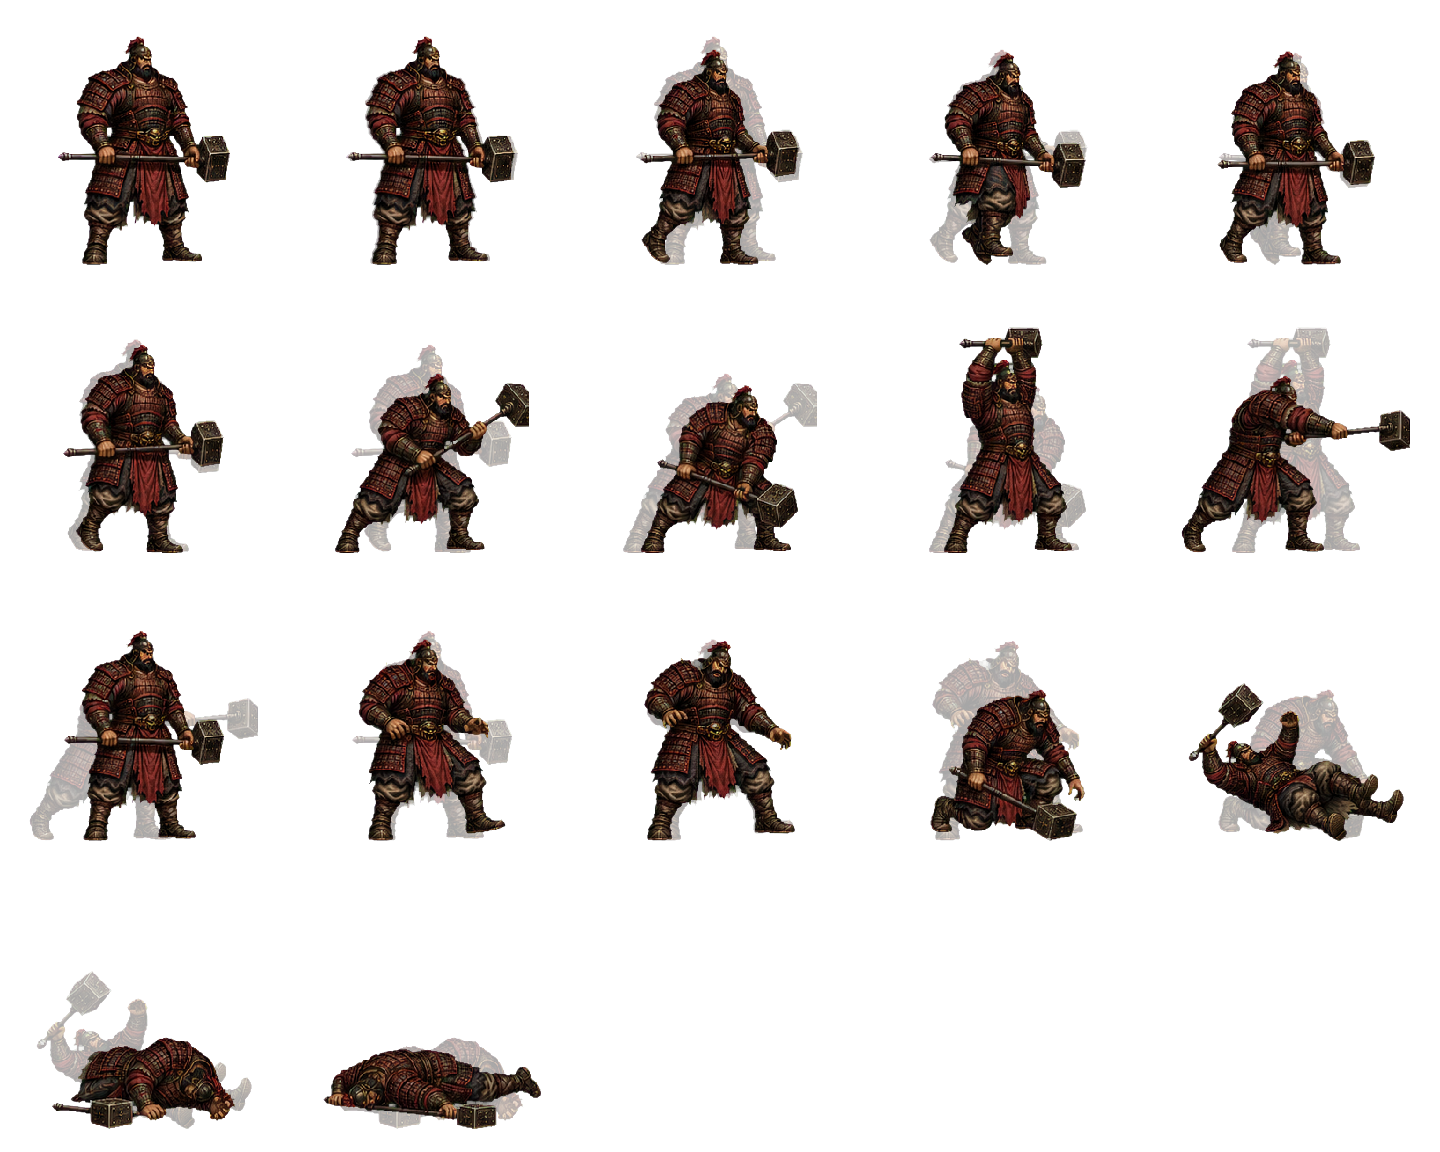
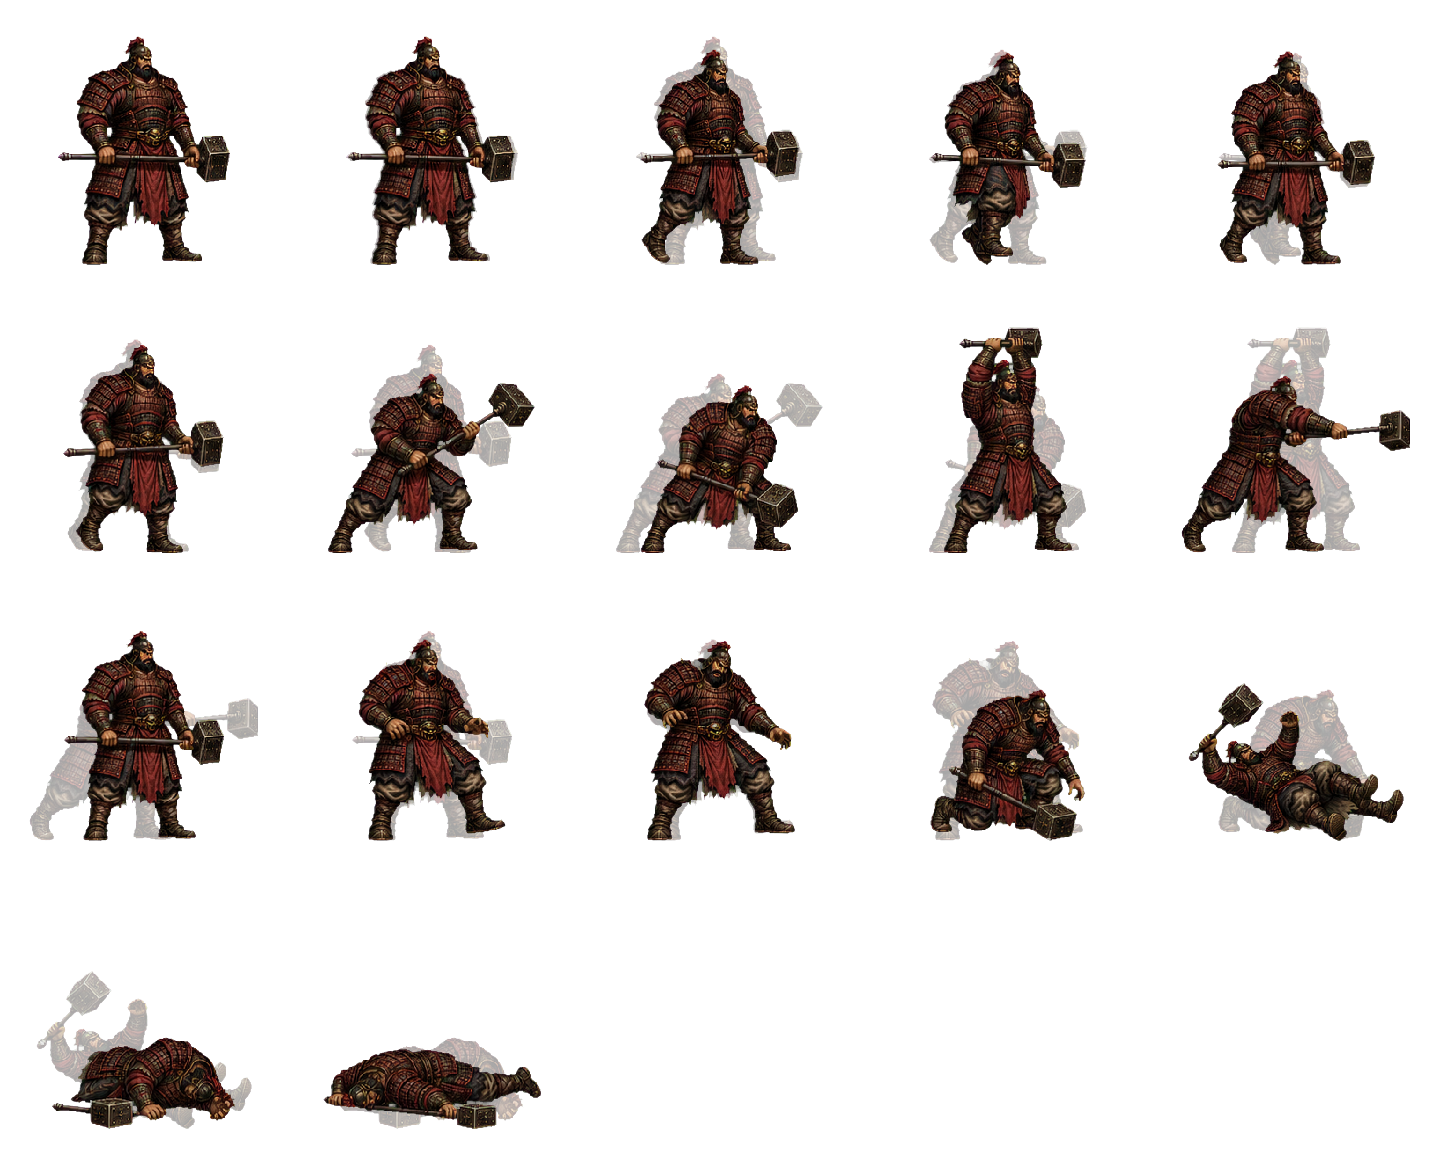
fix: restore mauler attack hammer crop

Changed region(s): [[0.2188, 0.3125, 0.375, 0.5], [0.4375, 0.3125, 0.5625, 0.4688], [0.5, 0.4375, 0.5312, 0.4688]]

diff --git a/tools/build_enemy_art.py b/tools/build_enemy_art.py
@@ -48,7 +48,7 @@ MAULER_SOURCE_RECTS = (
     (739, 70, 970, 345),
     (970, 70, 1210, 345),
     (0, 350, 232, 630),
-    (232, 350, 460, 630),
+    (232, 350, 484, 630),
     (460, 350, 660, 630),
     (660, 350, 828, 630),
     (828, 350, 1090, 630),

diff --git a/docs/character-production/er4-mauler-production-art-replacement.md b/docs/character-production/er4-mauler-production-art-replacement.md
@@ -40,7 +40,7 @@ display scale `1.05`, and right-authored source facing.
 | walk-1 | — | `(739,70,231,275)` | `(66,52)` |
 | walk-2 | — | `(970,70,240,275)` | `(65,51)` |
 | walk-3 | — | `(0,350,232,280)` | `(63,56)` |
-| attack-0 | startup | `(232,350,228,280)` | `(47,85)` |
+| attack-0 | startup | `(232,350,252,280)` | `(40,85)` |
 | attack-1 | startup | `(460,350,200,280)` | `(65,97)` |
 | attack-2 | active | `(660,350,168,280)` | `(80,39)` |
 | attack-3 | recovery | `(828,350,262,280)` | `(29,87)` |
@@ -79,10 +79,19 @@ modified with rotate, scale, or interpolation to fake animation.
 | --- | --- |
[9 lines of base64/hex data omitted]
+
+## Post-review crop correction
+
+The reviewer found that `attack-0` retained only part of the hammer head. The
+measured source rectangle ended at X=460 while the connected Mauler/hammer
+component continued to X=475. The rectangle now ends at X=484, leaving nine
+transparent source pixels and 41 runtime pixels to the right of the complete
+hammer. The disconnected neighboring pose is still removed by connected-alpha
+isolation. No pose, timing, anchor, scale, or gameplay parameter changed.
 
 ## Validation
 
@@ -90,9 +99,9 @@ modified with rotate, scale, or interpolation to fake animation.
 - TypeScript: passed.
 - ESLint: 0 errors; 8 pre-existing `<img>` warnings.
 - Direct Vinext and GitHub Pages builds and production packaging: passed.
-- Runtime inventory: 35 logical entries, 43 request files, 12,620,761 encoded
+- Runtime inventory: 35 logical entries, 43 request files, 12,621,623 encoded
   bytes, 126,676,480 decoded RGBA bytes, and 46 packaged production files.
-- GitHub Pages artifact: 17,913,137 bytes.
+- GitHub Pages artifact: 17,913,999 bytes.
 - Browser: Desktop, 844×390, and 390×844 each retained one logical 1280×720
   Canvas, no page overflow, and zero captured runtime errors.
 - `pnpm` wrappers remain affected by TD-M11 before reaching project scripts;

diff --git a/CHECKLIST.md b/CHECKLIST.md
@@ -1234,9 +1234,10 @@
 | Atlas/alignment | Pass | Measured 288×288 cells, feet `(144,265)`, one `1.05` scale, 240.45px logical idle height |
 | Attack contract | Pass | Two startup, one active, two recovery frames; exact 600ms timing and existing body/hitbox/gameplay unchanged |
 | QA/provenance | Pass | Repository-owned idle gate, source/transparent derivatives, measured metadata, debug, onion, 25% silhouette, lineup, hashes, and review report |
-| Delivery | Pass | 43 requests; 12,620,761 encoded bytes; 126,676,480 decoded RGBA; 17,913,137-byte GitHub Pages artifact |
+| Delivery | Pass | 43 requests; 12,621,623 encoded bytes; 126,676,480 decoded RGBA; 17,913,999-byte GitHub Pages artifact |
 | Automated gates | Pass with TD-M11 noted | 129/129 direct tests, typecheck, lint 0 errors/8 existing warnings, direct Vinext/Vite builds and packaging |
 | Browser | Pass | Desktop, 844×390, and 390×844: one logical 1280×720 Canvas, no overflow, zero captured errors |
 | Scope | Pass | Mauler presentation and minimum per-frame metadata only; no balance, AI, Stage, Camera, UI, Audio, or unrelated gameplay change |
 | Approved-prototype conformance | Go | Largest normal enemy, smaller than Boss; square-headed long hammer and broad heavy silhouette preserved |
+| Post-review crop correction | Pass | `attack-0` source rect is `(232,350,252,280)`; complete connected hammer retains 9px source and 41px runtime right padding with no adjacent pose |
 | Next task | Selected | GX.1 — Duelist Leap Mobility Prototype |

diff --git a/SPRINT.md b/SPRINT.md
@@ -985,6 +985,10 @@ Status: completed and accepted.
   eight existing warnings; both direct builds and packaging passed.
 - [x] Desktop, 844×390, and 390×844 production smoke retained one 1280×720
   Canvas, no overflow, and zero captured browser errors.
+- [x] Post-review correction expanded only `attack-0` source X range from
+  `232..460` to `232..484`; the complete hammer now retains 9 source pixels
+  and 41 runtime pixels of right-side padding without neighboring-pose
+  contamination.
 - [ ] Package-manager wrappers remain affected by TD-M11; equivalent direct
   project gates above are the recorded acceptance evidence.
 

diff --git a/ASSET_PIPELINE.md b/ASSET_PIPELINE.md
@@ -328,6 +328,6 @@ memory and delivery budgets rather than append them.
   cadence.
 - Shield Guard and Crossbow remain temporary Soldier presentation until their
   dedicated production tasks.
-- ER.4 delivery measurements: 43 runtime requests, 12,620,761 encoded bytes,
+- ER.4 delivery measurements: 43 runtime requests, 12,621,623 encoded bytes,
   126,676,480 decoded RGBA bytes, 46 packaged production files, and a
-  17,913,137-byte GitHub Pages artifact.
+  17,913,999-byte GitHub Pages artifact.

diff --git a/docs/visual-baselines/enemy-cast-v2/README.md b/docs/visual-baselines/enemy-cast-v2/README.md
@@ -62,3 +62,7 @@ walk 4, attack 5, hurt 2, and dead 4. The broad red/brown bearded heavy
 silhouette and single long square-headed war hammer pass both approved
 references. Both files are QA evidence only and are excluded from production
 packaging.
+
+The review image was updated after the reviewer found a clipped `attack-0`
+hammer head. The corrected measured rectangle includes the complete connected
+hammer with explicit right-side padding and excludes the neighboring pose.
